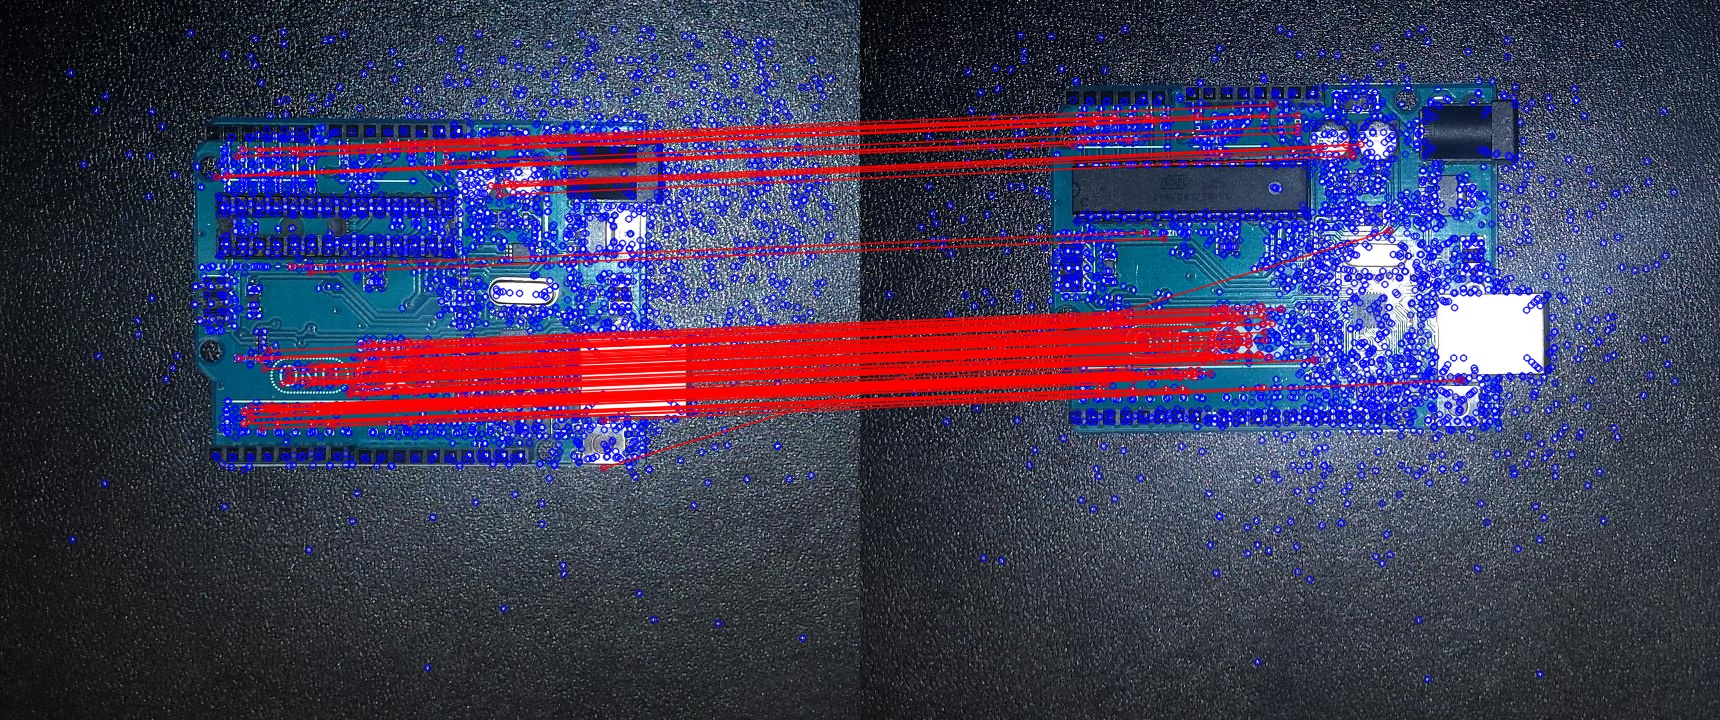
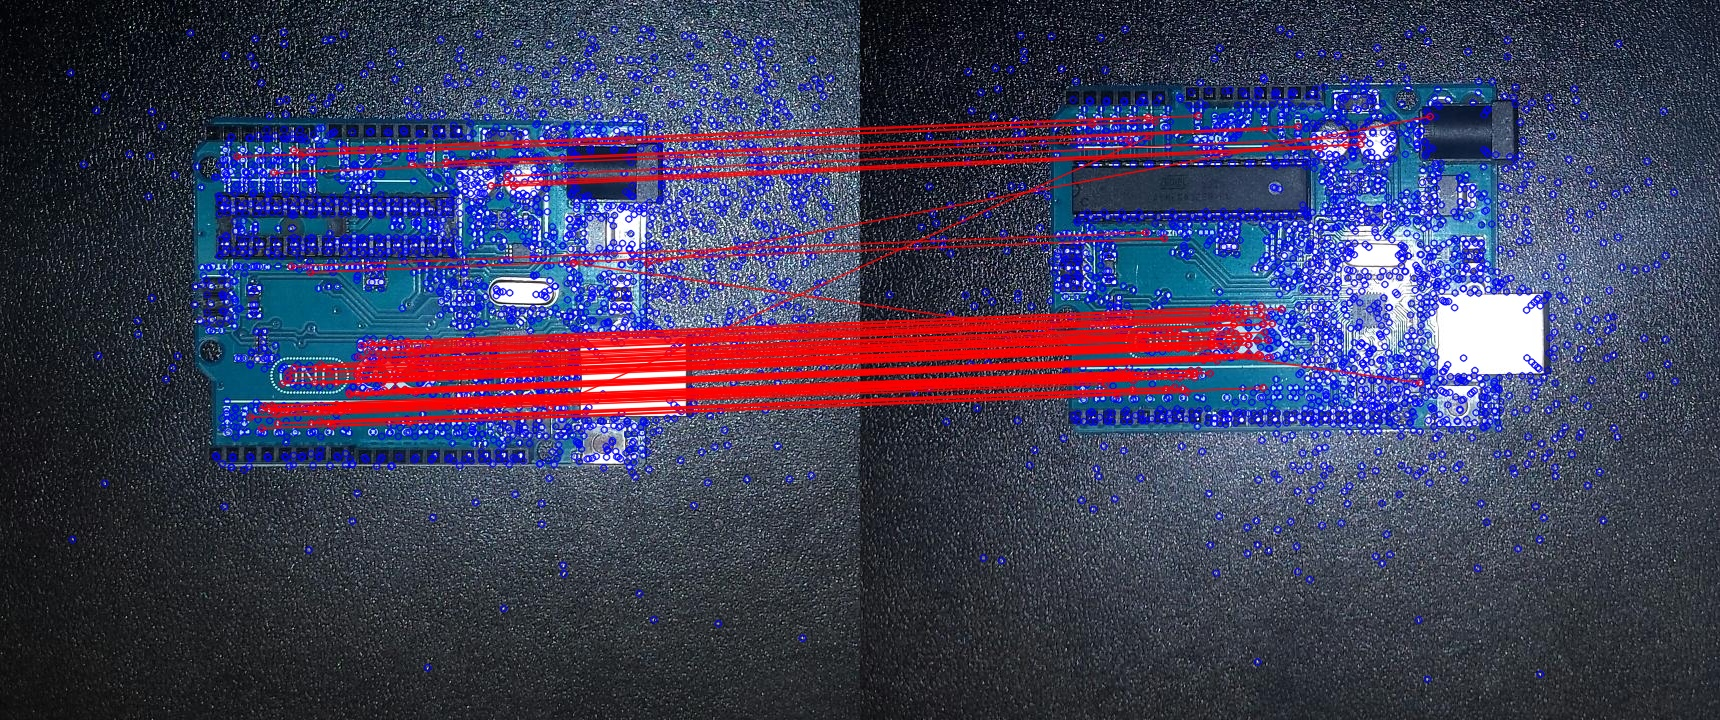
Added custom erosion and dilation

Changed region(s): [[0.0924, 0.1222, 0.8936, 0.6722]]

diff --git a/bruteForceMatchingTest.py b/bruteForceMatchingTest.py
@@ -25,6 +25,7 @@ def bfmatcher(window, img1, kp1, desc1, img2, kp2, desc2, normType = cv2.NORM_HA
     cv2.imwrite(outputPath + window + fileExtension, matchesImage)
     cv2.imshow(window, matchesImage)
     cv2.waitKey(0)
+    cv2.destroyAllWindows()
 
 def bfmatcherknn(window, img1, kp1, desc1, img2, kp2, desc2, normType = cv2.NORM_HAMMING, k = 2, noMatches = 250):
     bf = cv2.BFMatcher(normType = normType)
@@ -44,6 +45,7 @@ def bfmatcherknn(window, img1, kp1, desc1, img2, kp2, desc2, normType = cv2.NORM
     cv2.imwrite(outputPath + window + fileExtension, matchesImage)
     cv2.imshow(window, matchesImage)
     cv2.waitKey(0)
+    cv2.destroyAllWindows()
 
 def flannmatcher(window, img1, kp1, desc1, img2, kp2, desc2, flannIndex = 0, trees = 5, checks = 50, noMatches = 250):
     indexParams = dict(algorithm = flannIndex, trees = trees)
@@ -77,6 +79,7 @@ def flannmatcher(window, img1, kp1, desc1, img2, kp2, desc2, flannIndex = 0, tre
     cv2.imwrite(outputPath + window + fileExtension, matchesImage)
     cv2.imshow(window, matchesImage)
     cv2.waitKey(0)
+    cv2.destroyAllWindows()
 
 pcb1 = cv2.imread(imagesPath + 'pcb1.jpg')
 pcb2 = cv2.imread(imagesPath + 'pcb2.jpg')

diff --git a/splitDifferences.py b/splitDifferences.py
@@ -7,12 +7,26 @@ import numpy as np
 import cv2
 import easygui
 
+from matplotlib import pyplot as plt
+from matplotlib import image as image
+
 imagesPath = 'images/'
 
 mask = cv2.imread(imagesPath + 'mask.jpg')
 
+shape1 = cv2.getStructuringElement(cv2.MORPH_RECT, (10, 10))
+mask1 = cv2.morphologyEx(mask, cv2.MORPH_CLOSE, shape1)
+
+#Change the shape to get a finer structure
+shape1 = cv2.getStructuringElement(cv2.MORPH_RECT, (2, 2))
+
+#Removes the noise and keeps the components
+mask1 = cv2.erode(mask1, shape1, iterations = 1)
+
+#Enhances the components
+mask1 = cv2.dilate(mask1, shape1, iterations = 10)
+
 shape = cv2.getStructuringElement(cv2.MORPH_RECT, (10, 10))
-mask1 = cv2.morphologyEx(mask, cv2.MORPH_CLOSE, shape)
 
 cv2.imshow('Mask1', mask1)
 
@@ -27,3 +41,4 @@ mask2 = cv2.morphologyEx(mask2, cv2.MORPH_CLOSE, shape)
 
 cv2.imshow('Mask2', mask2)
 cv2.waitKey(0)
+cv2.destroyAllWindows()

diff --git a/featureDetectionTest.py b/featureDetectionTest.py
@@ -111,3 +111,4 @@ keyPoints2, desc2 = akaze.detectAndCompute(I2, None)
 showDifs('akazeDif', I1, keyPoints1, desc1, I2, keyPoints2, desc2)
 
 key = cv2.waitKey(0)
+cv2.destroyAllWindows()

diff --git a/testDifferences.py b/testDifferences.py
@@ -135,7 +135,7 @@ for contour in contours:
 cv2.imshow('pcb1', pcb1)
 # cv2.imshow('pcb2', pcb2)
 cv2.waitKey(0)
-
+cv2.destroyAllWindows()
 
 
 # Creating a mask with white pixels
